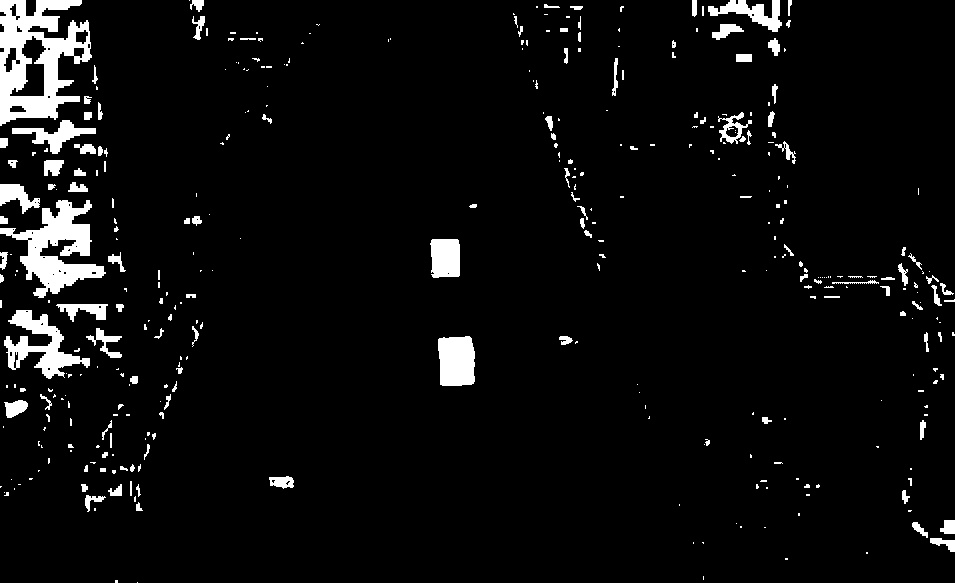
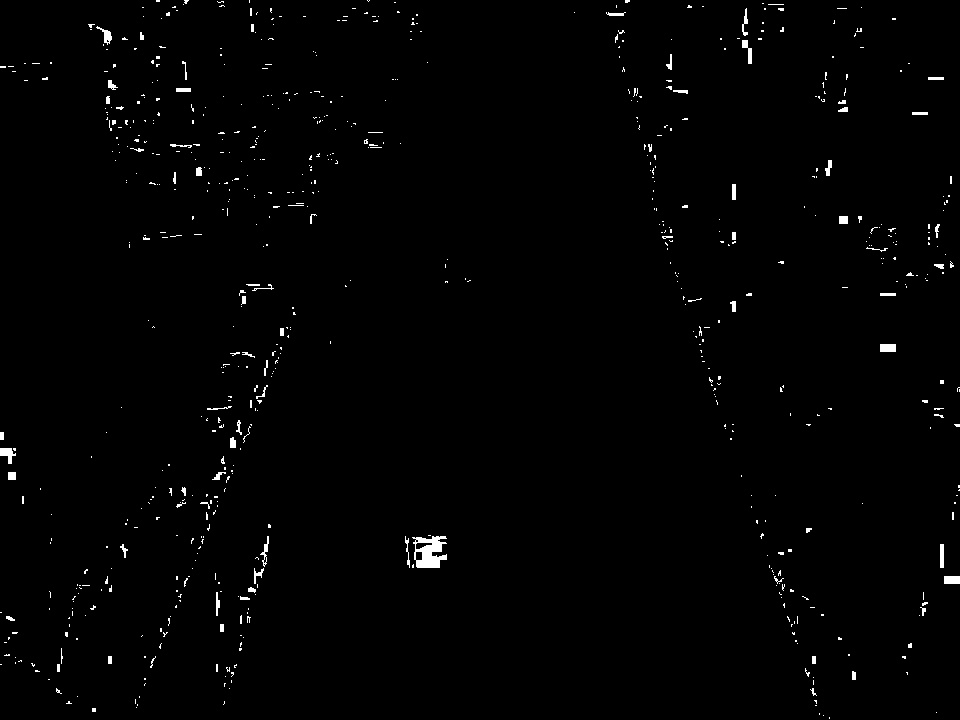
further attempts

diff --git a/color_detection.py b/color_detection.py
@@ -21,13 +21,13 @@ COLOR_2_IDX = {
     "black" : 6,
 }
 
-def detect_color_positions(target_color, image_path, output_path, tolerance=(20, 100, 100)):
+def detect_color_positions(target_color, image_path, output_path, tolerance=np.array([10, 25, 25])):
     assert target_color in COLORS
 
     image = cv2.imread(image_path)
     hsv = cv2.cvtColor(image, cv2.COLOR_BGR2HSV)
 
-    base_hsv = COLORS[target_color]
+    base_hsv = COLORS[target_color].astype(np.uint32)
     lower_bound = np.array([
         max(0, base_hsv[0] - tolerance[0]),
         max(0, base_hsv[1] - tolerance[1]),
@@ -72,7 +72,7 @@ def get_hsv_value(event, x, y, flags, param):
     if event == cv2.EVENT_LBUTTONDOWN and click_count < len(detect_colors):
         hsv_value = hsv[y, x]
         color_name = detect_colors[click_count]
-        COLORS[color_name] = hsv_value
+        COLORS[color_name] = hsv_value.astype(np.uint32)
         print(f"Updated '{color_name}' to HSV value from ({x}, {y}): {hsv_value}")
         click_count += 1
 
@@ -98,10 +98,9 @@ if calibrate_colors == "y":
             break
 
     cv2.destroyAllWindows()
-    print("Updated COLORS:", COLORS)
 
 for color in detect_colors:
-    output_path = f'pictures/logitech_examples_output/example{example}_output_{color}.jpg'
+    output_path = f'pictures/logitech_examples_output/output_{color}.jpg'
     color_positions[color] = detect_color_positions(color, image_path, output_path)
 
 colors_detected = [color for color in detect_colors if color_positions[color] != []]
